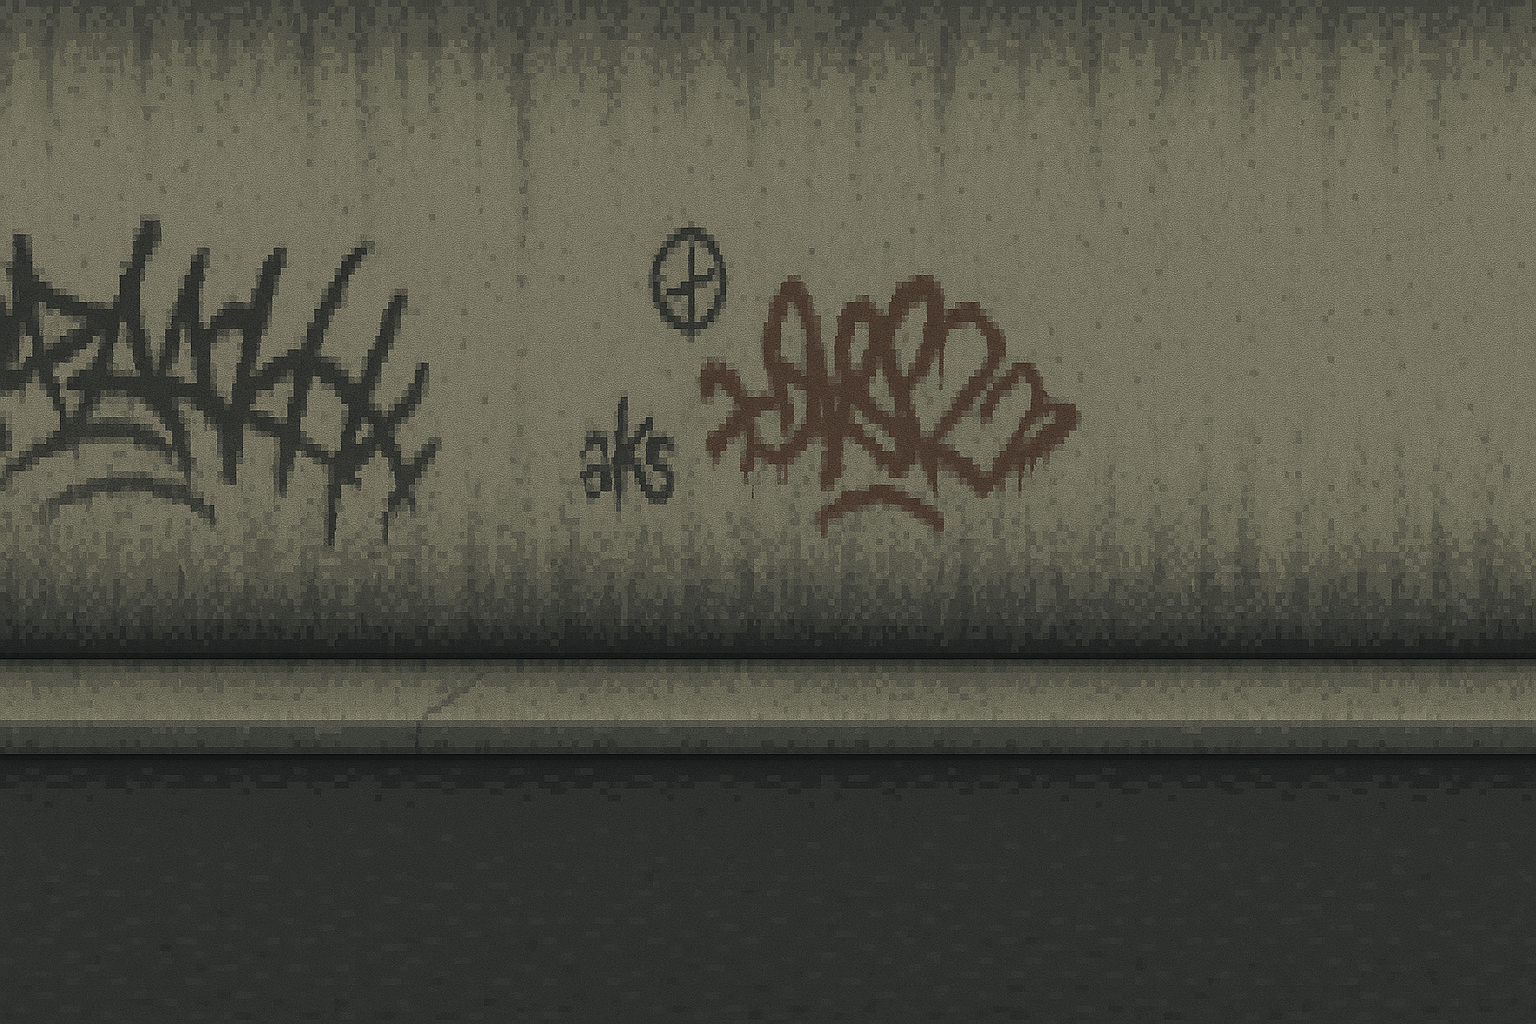
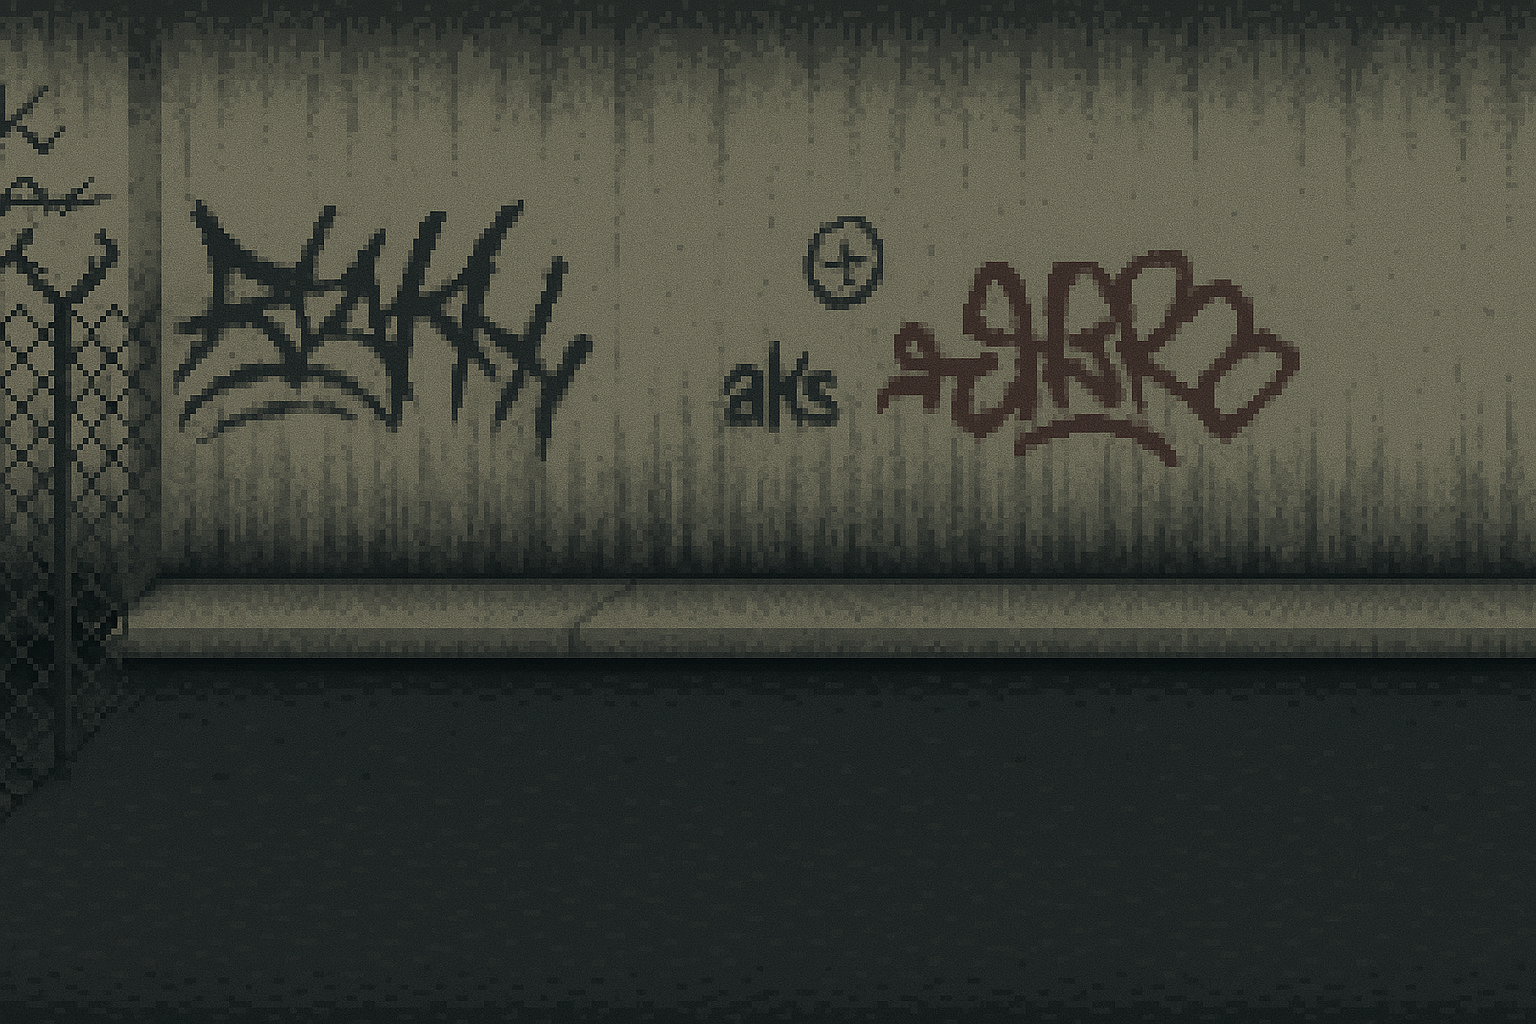
Troca do fundo
Nader Taha, Murilo Godoy <naderat@al.insper.edu.br murilozg@al.insper.edu.br>

diff --git a/jogo.py b/jogo.py
@@ -314,7 +314,7 @@ class TelaJogo(Tela):
         self.zumbies = pygame.sprite.Group()
         self.tiros = pygame.sprite.Group()
         self.impactos = pygame.sprite.Group() 
-        image = pygame.image.load("assets/img/fundo.png")
+        image = pygame.image.load("assets/img/Fundo.png")
         self.fundo = pygame.transform.scale(image, (self.largura, self.altura))
         self.moving_left = False
         self.moving_right = False
@@ -397,7 +397,7 @@ class TelaJogo(Tela):
                     self.personagem.trocar_animacao("assets/img/Shot_1.png", 4)  # Reinicia animação
                     x = self.personagem.rect.centerx
                     y = self.personagem.rect.centery
-                    novo_tiro = Tiro(x+30,y+140)
+                    novo_tiro = Tiro(x+100,y+140)
                     self.tiros.add(novo_tiro)
                 else:
                     self.animacao_tiro = False  # Conclui a animação de tiro
